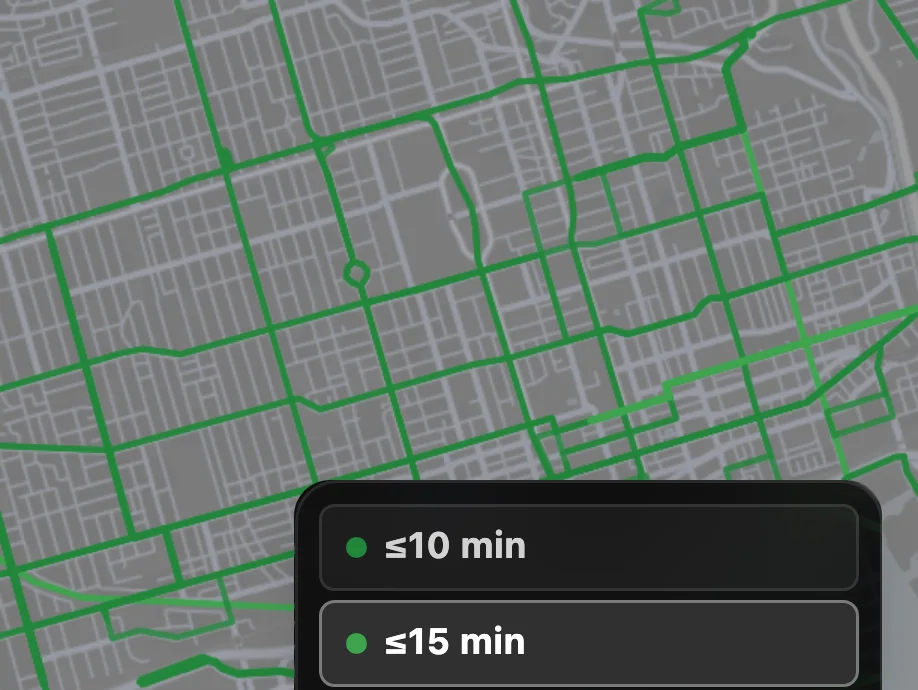
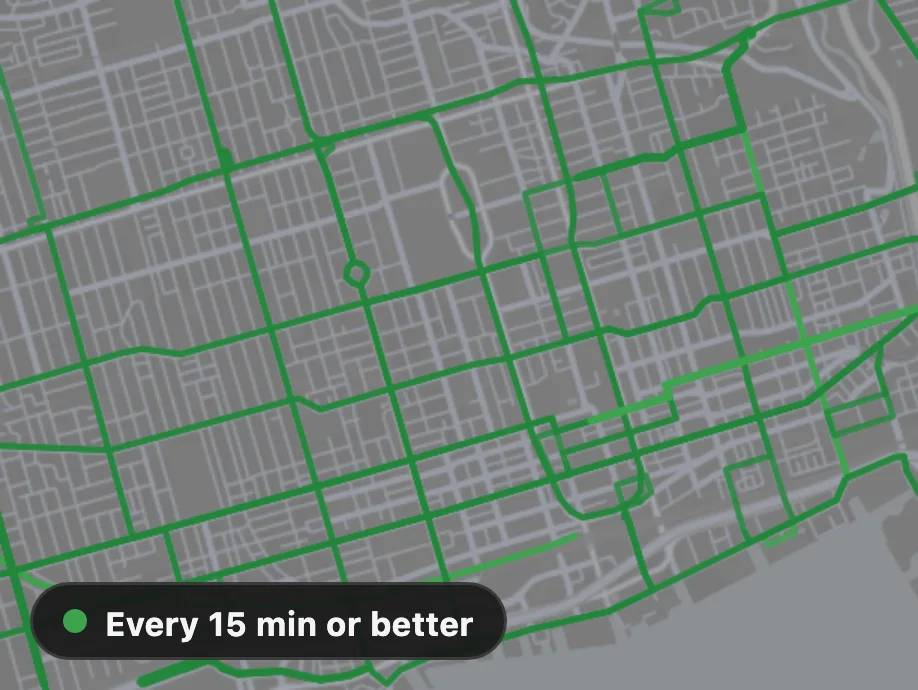
Card pictures in Ryan's style B: the real map and one small label (CIV-1794)
Ryan picked B: no app control panels. capture.mts now shows, for each card, only what makes its point
on the real map, every control hidden, the basemap faded and without place names, and one small
label in the map's pill style, light and dark, desktop and phone, through the shared headless helper
(CIV-1802's end-to-end run). Planners: frequency (every 15 min or better), day and time (weekday
overnight in Chicago), agencies (VTA, BART and AC Transit at Milpitas), share (the view's link).
Researchers get their own: compare (Compare's two maps, weekday and Sunday) and cite (the export's
citation line). Labels are proposed, waiting on Ryan's word-for-word OK.

diff --git a/src/__tests__/ResearchersPage.test.tsx b/src/__tests__/ResearchersPage.test.tsx
@@ -34,7 +34,7 @@ describe('For Researchers page (CIV-1709)', () => {
     expect(screen.getByRole('link', { name: 'Read how Atlas works' })).toHaveAttribute('href', '/about/docs#data-flow');
   });
 
-  it('alternates the picture side of the cards with pictures, and reuses the planners pictures', () => {
+  it('alternates the picture side of the cards with pictures, each its own (CIV-1794)', () => {
     const { container } = render(<ResearchersPage />);
     const sides = [...container.querySelectorAll('[data-picture-side]')].map(c => c.getAttribute('data-picture-side'));
     // Compare Cities (flipped), then Maps You Can Cite; History and the Request a demo card have no picture.
@@ -42,7 +42,7 @@ describe('For Researchers page (CIV-1709)', () => {
     const srcs = [...container.querySelectorAll('img')].map(img => img.getAttribute('src'));
     for (const theme of ['light', 'dark']) {
       expect(srcs).toContain(`/assets/planners/hero-${theme}.webp`);
-      for (const card of ['agency', 'export']) expect(srcs).toContain(`/assets/planners/card-${card}-desktop-${theme}.webp`);
+      for (const card of ['compare', 'cite']) expect(srcs).toContain(`/assets/planners/card-${card}-desktop-${theme}.webp`);
     }
   });
 

diff --git a/src/ResearchersPage.tsx b/src/ResearchersPage.tsx
@@ -30,10 +30,10 @@ export default function ResearchersPage() {
         <FeatureCard title={cards.history.title} color={color(0)} picture={null} beta={cards.history.beta}>
           <p>{cards.history.text}</p>
         </FeatureCard>
-        <FeatureCard title={cards.compareCities.title} color={color(1)} picture={featureCardAsset('card-agency')} flip>
+        <FeatureCard title={cards.compareCities.title} color={color(1)} picture={featureCardAsset('card-compare')} flip>
           <p>{cards.compareCities.text}</p>
         </FeatureCard>
-        <FeatureCard title={cards.cite.title} color={color(2)} picture={featureCardAsset('card-export')}>
+        <FeatureCard title={cards.cite.title} color={color(2)} picture={featureCardAsset('card-cite')}>
           <p>{cards.cite.text}</p>
         </FeatureCard>
       </div>
